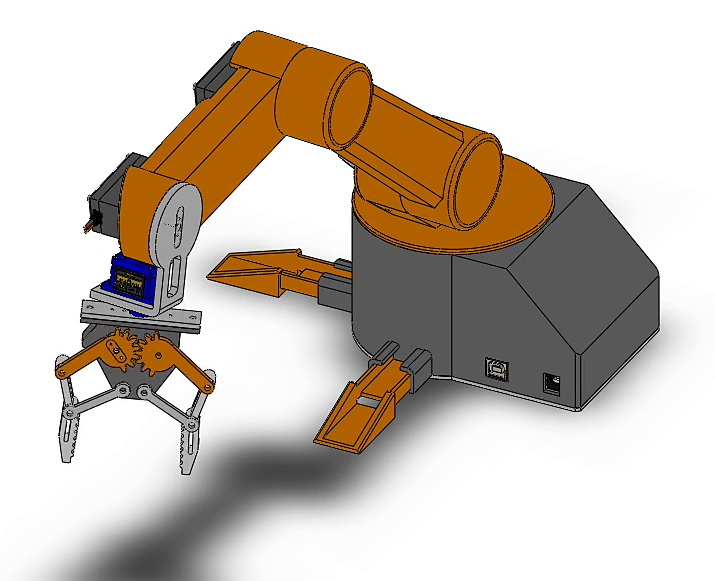
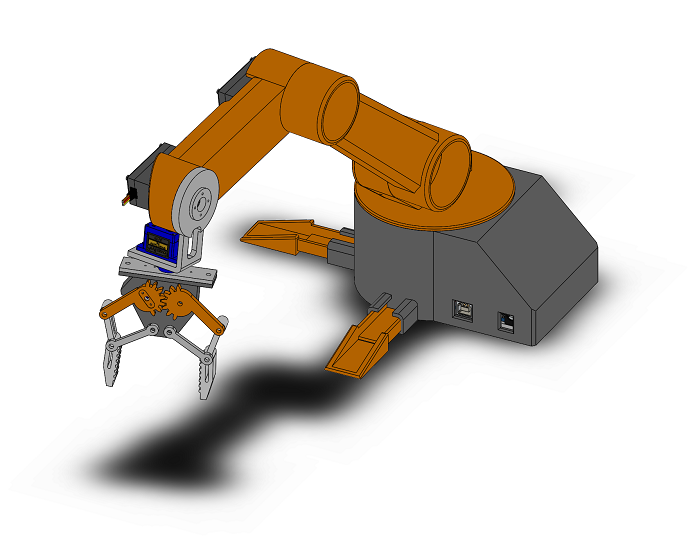
Replace two robotic arm screenshots with new SOLIDWORKS images
New arm-cad-motion-reach.png and arm-cad-motion-grip.png. The grip image
has a new shape, so its --ar in the project-arm.html gallery is now 1.302.

diff --git a/project-arm.html b/project-arm.html
@@ -182,7 +182,7 @@
         <!-- Row 1: motion study frames and the rendered model -->
         <div class="gallery-grid gallery-row-fit">
             <img src="images/arm-cad-motion-approach.png" style="--ar: 1.191" alt="Motion study frame: arm lowering the gripper towards the object" loading="lazy">
-            <img src="images/arm-cad-motion-grip.png" style="--ar: 1.231" alt="Motion study frame: gripper open, about to grip" loading="lazy">
+            <img src="images/arm-cad-motion-grip.png" style="--ar: 1.302" alt="Motion study frame: gripper open, about to grip" loading="lazy">
             <img src="images/arm-render.jpg" style="--ar: 0.799" alt="Rendered CAD model of the complete robotic arm" loading="lazy">
         </div>
 
